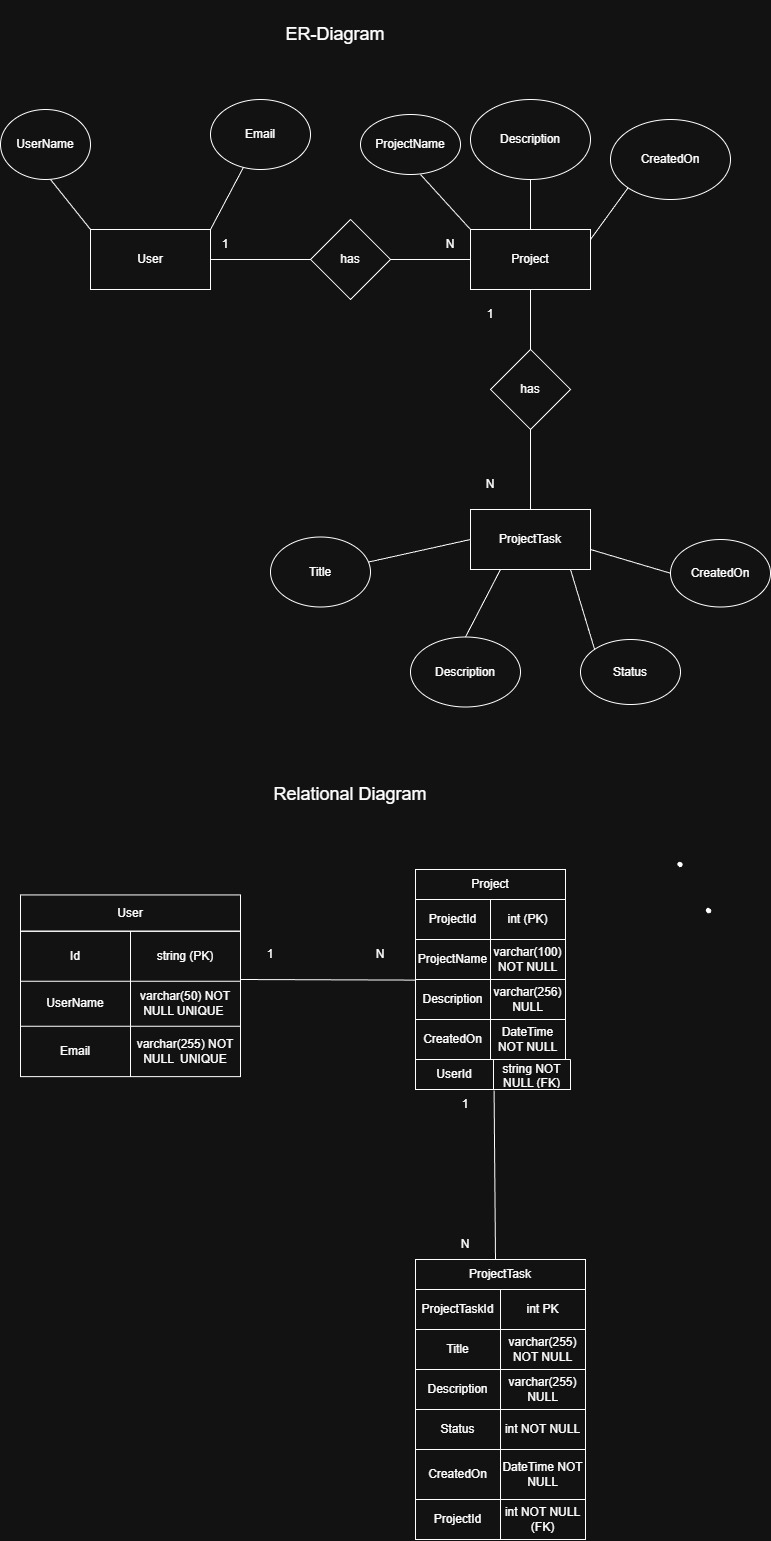
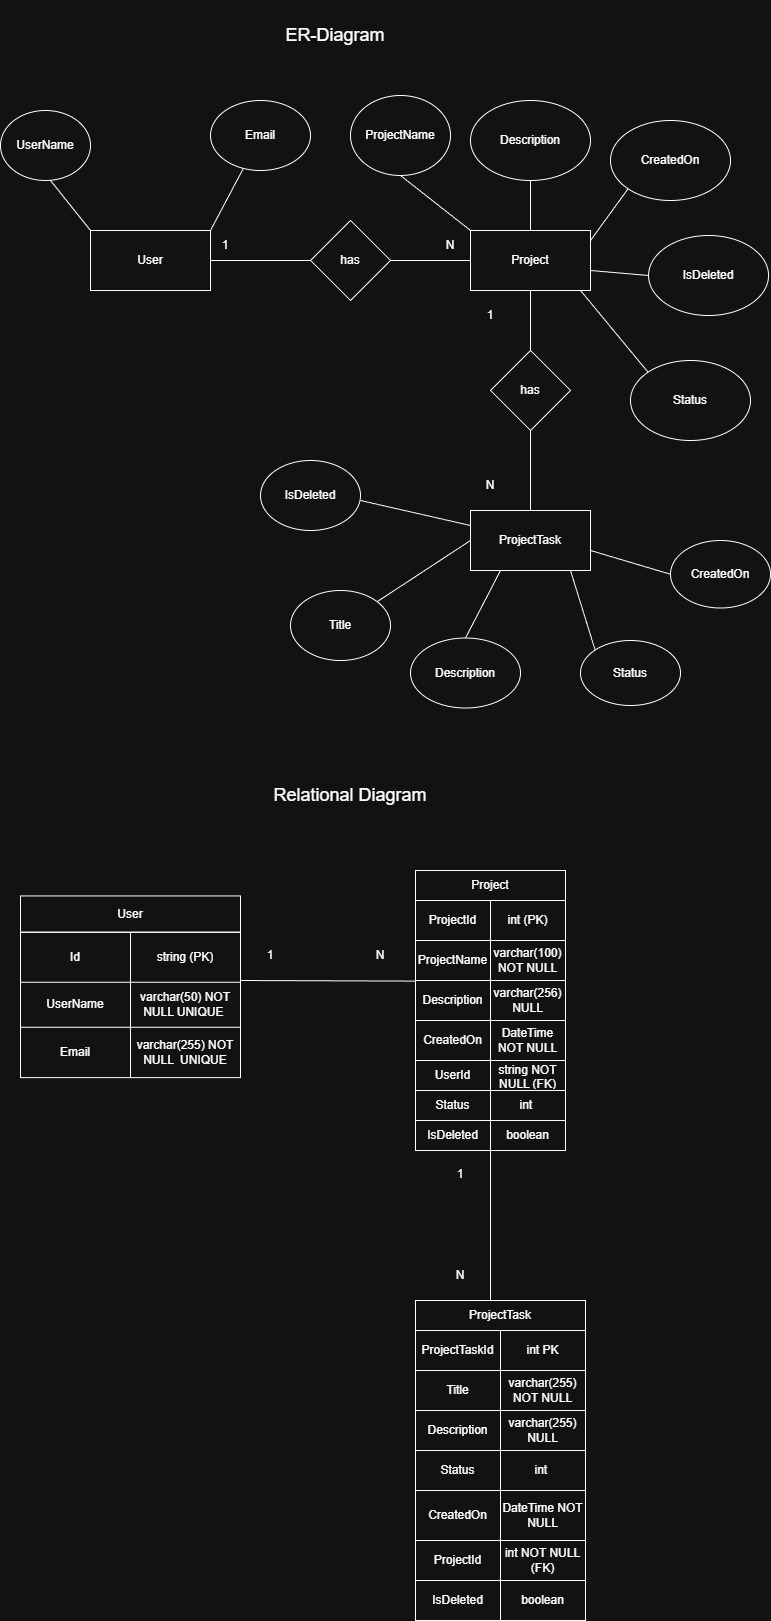
Implemented filter for projects and tasks

diff --git a/Controllers/ProjectTaskController.cs b/Controllers/ProjectTaskController.cs
@@ -182,6 +182,33 @@ namespace Projektverwaltung.Controllers
             return RedirectToAction(nameof(Index), new {projectId = projectTask.ProjectId});
         }
 
+        [HttpGet]
+        public async Task<IActionResult> ByTask(string searchTerm, int projectId, ProjectTask projectTask)
+        {
+
+            if (string.IsNullOrWhiteSpace(searchTerm))
+                return RedirectToAction(nameof(Index), new { projectId = projectTask.ProjectId });
+
+
+            searchTerm = searchTerm.Trim();
+
+
+            var tasks = await _context.ProjectTask
+                .Include(p => p.Project)
+                .Where(p => p.Title.Contains(searchTerm) || p.Description.Contains(searchTerm))
+                .Where(p => !p.IsDeleted)
+                .Where(p => p.ProjectId == projectId)
+                .OrderByDescending(c => c.CreatedOn)
+                .ToListAsync();
+
+
+            ViewBag.FilterTask = searchTerm;
+            @ViewBag.projectId = projectId;
+
+
+            return View("Index", tasks);
+        }
+
         private bool ProjectTaskExists(int id)
         {
             return _context.ProjectTask.Any(e => e.ProjectTaskId == id);

diff --git a/Controllers/ProjectController.cs b/Controllers/ProjectController.cs
@@ -180,6 +180,31 @@ namespace Projektverwaltung.Controllers
             return RedirectToAction(nameof(Index));
         }
 
+        [HttpGet]
+        public async Task<IActionResult> ByProject(string searchTerm)
+        {
+          
+            if (string.IsNullOrWhiteSpace(searchTerm))
+                return RedirectToAction(nameof(Index));
+
+          
+            searchTerm = searchTerm.Trim();
+
+         
+            var projects = await _context.Project
+                .Include(p => p.ProjectTasks)
+                .Where(p => p.ProjectName.Contains(searchTerm) || p.Description.Contains(searchTerm))
+                .Where(p => !p.IsDeleted)
+                .OrderByDescending(c => c.CreatedOn)
+                .ToListAsync();
+
+         
+            ViewBag.FilterProject = searchTerm;
+
+     
+            return View("Index", projects);
+        }
+
         private bool ProjectExists(int id)
         {
             return _context.Project.Any(e => e.ProjectId == id);